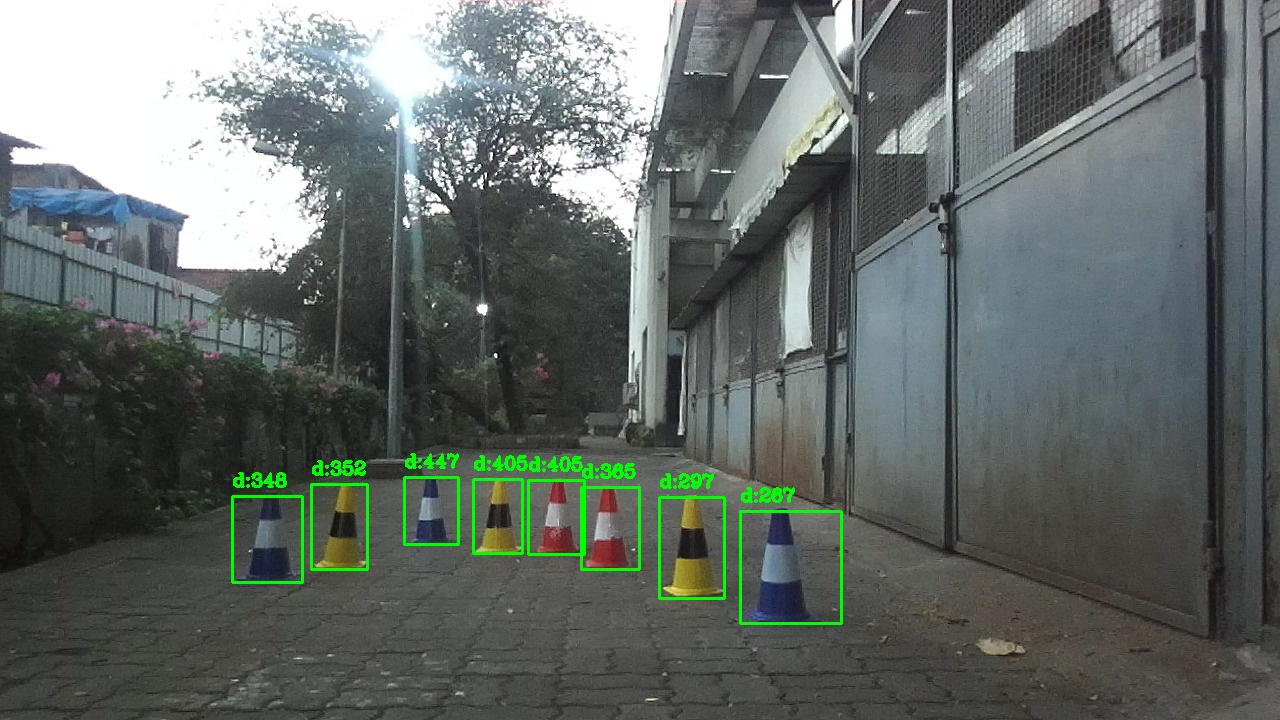
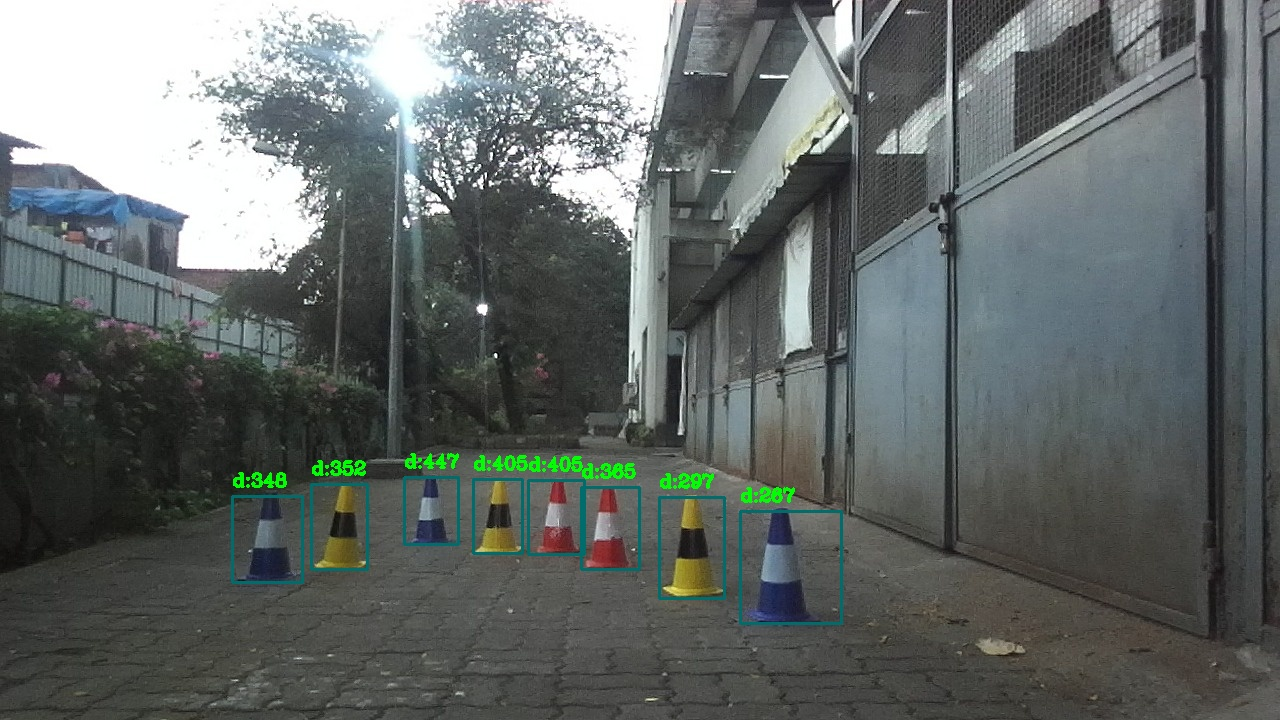
percept

Changed region(s): [[0.1562, 0.6417, 0.6562, 0.8861], [0.6562, 0.825, 0.6875, 0.8556]]

diff --git a/Perception/conedetection.py b/Perception/conedetection.py
@@ -1,10 +1,5 @@
 from ultralytics import YOLO
 import cv2
-import os
-print(os.getcwd())
-print(os.listdir())
-model = YOLO("yolov8n.pt")
-print("YOLO working!")
 model=YOLO("best.pt")
 image=cv2.imread("image.png")
 image2=image.copy()
@@ -18,7 +13,7 @@ for box in results[0].boxes:
     y2=int(box.xyxy[0][3])
     l=y2-y1
     cones.append(l)
-    cv2.rectangle(image2, (x1, y1), (x2, y2), (0,255,0), 2)
+    cv2.rectangle(image2, (x1, y1), (x2, y2), (108,108,0), 2)
     cv2.putText(image2, "d:"+str(int(30000/l)), (x1, y1-10),
             cv2.FONT_HERSHEY_COMPLEX,
             0.6, (0,255,0), 2)
